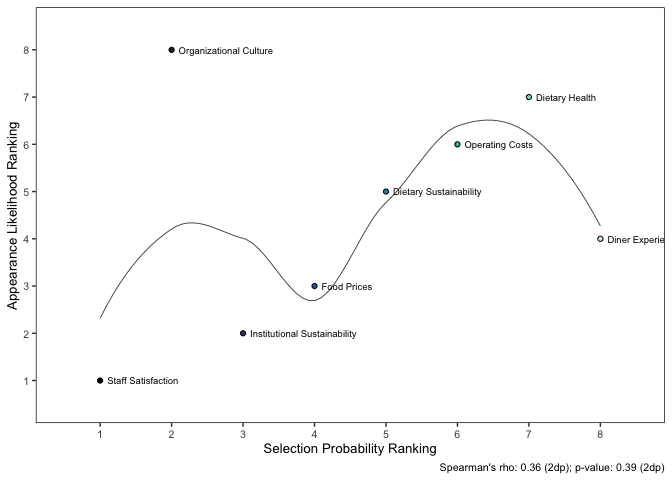
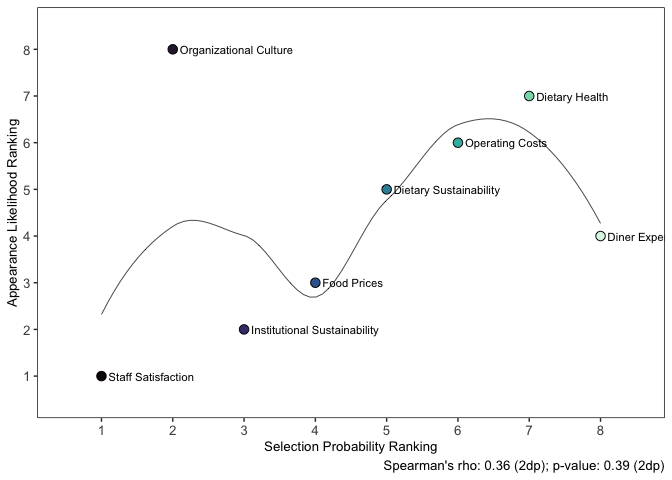
made dimension changes to correlation analysis plot

diff --git a/scripts/cleaning-script.md b/scripts/cleaning-script.md
@@ -6134,16 +6134,16 @@ ordinal_joint_correlation_table
 ordinal_joint_correlation_plot <- ordinal_joint_correlation_table %>%
   ggplot(aes(x=selection_probability,y=appearance_likelihood,color=indicator)) +
   geom_smooth(method=loess,se=FALSE,linewidth=0.25,color="black") +
-  geom_point(aes(fill=indicator),shape=21,color="black") + 
-  geom_text(aes(label=indicator),hjust=0,nudge_x=0.1,size=2.5,color="black") + 
+  geom_point(aes(fill=indicator),shape=21,color="black",size=3) + 
+  geom_text(aes(label=indicator),hjust=0,nudge_x=0.1,size=3,color="black") + 
   scale_fill_viridis_d(option="mako",limits=c("Staff Satisfaction","Organizational Culture","Institutional Sustainability","Food Prices","Dietary Sustainability","Operating Costs","Dietary Health","Diner Experience")) +
   scale_x_continuous(breaks=c(1,2,3,4,5,6,7,8),limits=c(0.5,8.5)) +
   scale_y_continuous(breaks=c(1,2,3,4,5,6,7,8),limits=c(0.5,8.5)) +
   xlab("Selection Probability Ranking") + 
   ylab("Appearance Likelihood Ranking") +
   labs(caption="Spearman's rho: 0.36 (2dp); p-value: 0.39 (2dp)") + 
-  theme(legend.position="none",panel.grid=element_blank(),panel.background=element_rect(fill="white"),panel.border=element_rect(fill=NA),legend.title=element_text(size=10),legend.text=element_text(size=10),plot.title=element_text(size=10),plot.subtitle=element_text(size=10,hjust=1),plot.caption=element_text(size=8),axis.title=element_text(size=10),axis.text=element_text(size=8))
-ggsave(filename="ordinal_joint_correlation_plot.png",plot=ordinal_joint_correlation_plot,path="/Users/kenjinchang/github/stakeholder-analysis/figures",width=24,height=12,units="cm",dpi=150,limitsize=TRUE)
+  theme(legend.position="none",panel.grid=element_blank(),panel.background=element_rect(fill="white"),panel.border=element_rect(fill=NA),legend.title=element_text(size=10),legend.text=element_text(size=10),plot.title=element_text(size=10),plot.subtitle=element_text(size=10,hjust=1),plot.caption=element_text(size=10),axis.title=element_text(size=10),axis.text=element_text(size=10))
+ggsave(filename="ordinal_joint_correlation_plot.png",plot=ordinal_joint_correlation_plot,path="/Users/kenjinchang/github/stakeholder-analysis/figures",width=30,height=20,units="cm",dpi=150,limitsize=TRUE)
 ```
 
     ## `geom_smooth()` using formula = 'y ~ x'
